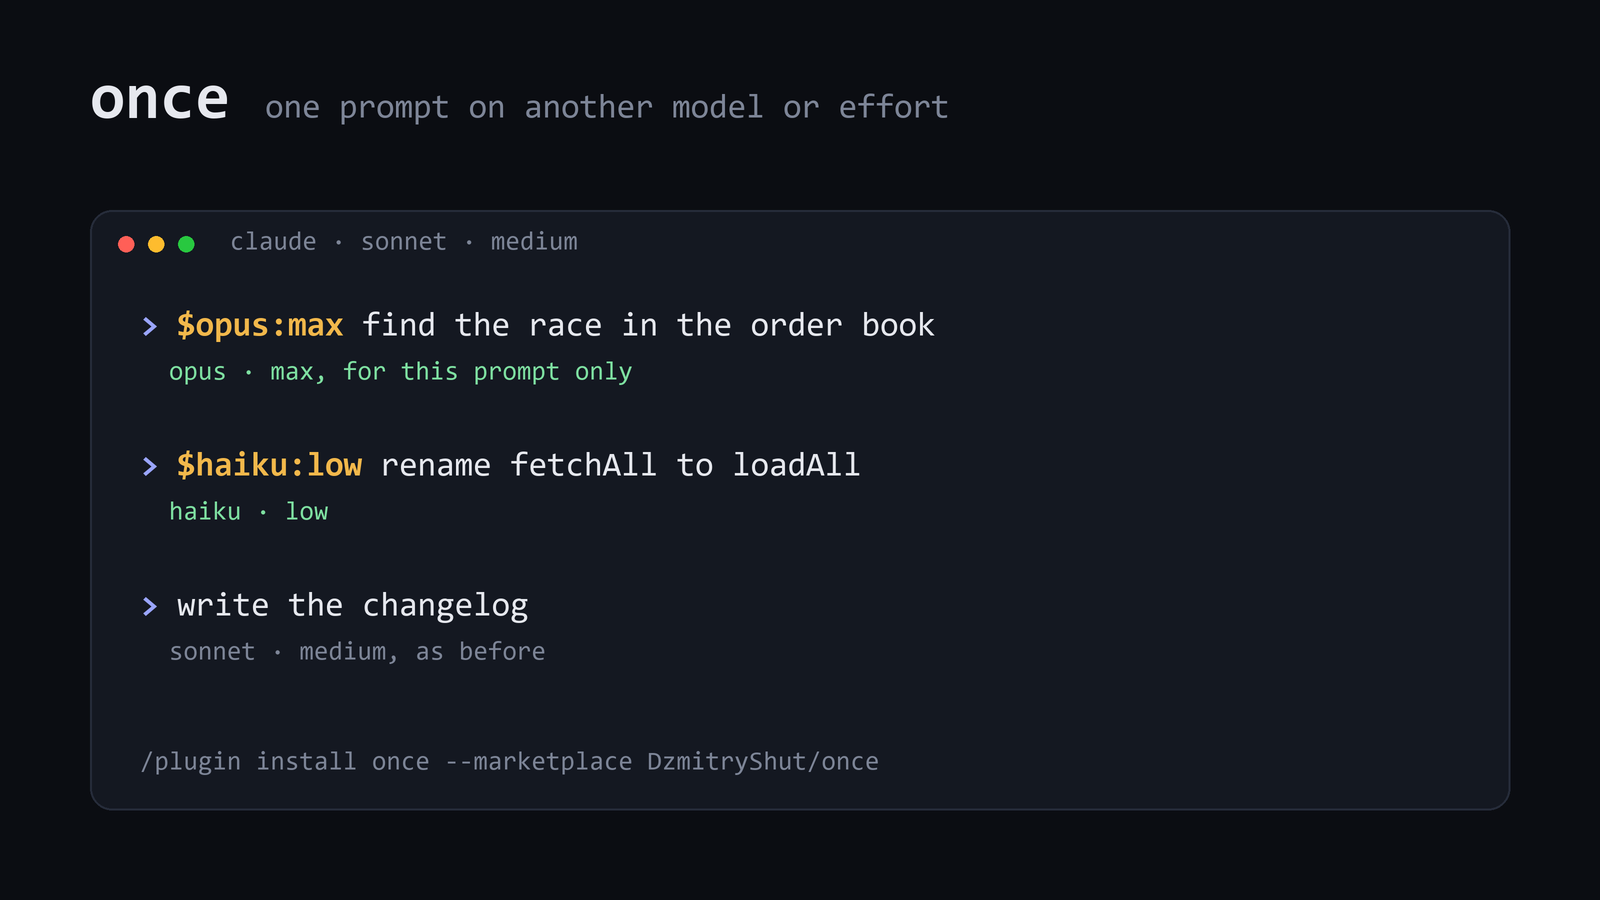
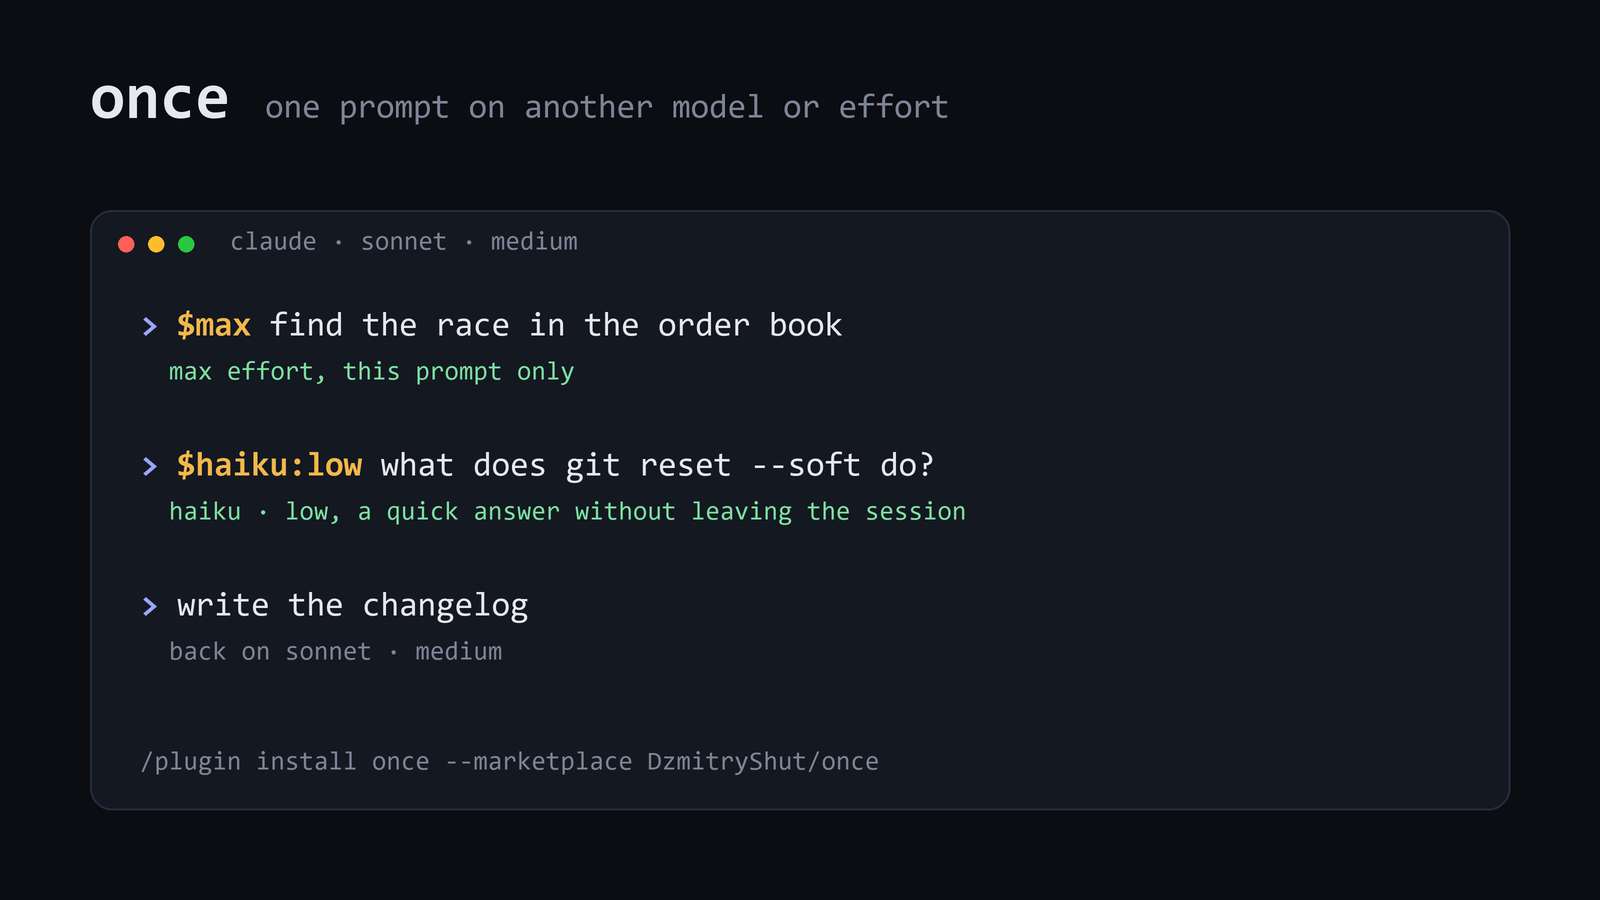
README: shorter and more visual, quick side questions with haiku:low up front

diff --git a/README.md b/README.md
@@ -1,129 +1,87 @@
+<div align="center">
+
 # once
 
-A Claude Code mod that sets the effort, the model, or both for a single prompt. `$low` for routine prompts, `$max` for hard ones. Your next prompt runs on your usual settings again.
+**Pick the effort or the model for one Claude Code prompt.**<br>
+The next prompt is back on your usual settings.
+
+[![license](https://img.shields.io/badge/license-MIT-blue)](LICENSE)
+[![claude code mod](https://img.shields.io/badge/claude%20code-mod-orange)](#install)
 
 ![once in a Claude Code session](assets/demo.png)
 
-## Install
+</div>
 
-At the prompt of a Claude Code session:
+```
+$low   rename fetchAll to loadAll          routine: think less
+$max   find the race in the order book     hard: think more
+$haiku:low what does git reset --soft do?  quick question: answer now, stay in the session
+```
+
+## Install
 
 ```
 /plugin install once --marketplace DzmitryShut/once
 ```
 
-Answer `y` to add the marketplace, then pick a scope. From a shell:
+Answer `y` to add the marketplace, then pick a scope. From a shell: `claude plugin install once --marketplace DzmitryShut/once`. In the desktop app: **+** next to the prompt, **Plugins**, **Add marketplace**.
 
-```
-claude plugin install once --marketplace DzmitryShut/once
-```
+## Use
 
-In the desktop app, click **+** next to the prompt box, then **Plugins**, **Add marketplace** with `DzmitryShut/once`, then **Add plugin**.
+Start a prompt with `$` and a spec. The prefix is cut before the model sees the text.
 
-## Usage
-
-Start a prompt with `$` and an effort level:
-
-```
-$low   rename fetchAll to loadAll
-$high  why does this test flake?
-$max   find the race in the order book
-```
-
-Effort is the setting to switch first. It costs nothing extra: the prompt cache belongs to the model, so `$low` and `$max` keep reading your session's cache ([measured below](#what-a-switch-costs)). Use `$low` for routine prompts and `$max` or `$xhigh` where a miss is expensive. Levels: `low`, `medium`, `high`, `xhigh`, `max`.
-
-Add a model when the prompt calls for one:
-
-```
-$haiku:low rename fetchAll to loadAll
-$opus:max  find the race in the order book
-$sonnet    review this diff
-```
-
-Another model starts with an empty cache and writes the whole conversation into its own, so a model switch is not free. It pays off when the session is under 100k tokens, when you send `$haiku` again within the hour, or when the prompt makes five or more model requests. The numbers are in [What a switch costs](#what-a-switch-costs) and [Using it to save](#using-it-to-save).
-
-| Spec | Model | Effort |
+| You type | Model | Effort |
 | --- | --- | --- |
-| `$opus` | Opus | unchanged |
-| `$max` | unchanged | max |
-| `$opus:max` or `$max:opus` | Opus | max |
-| `$claude-sonnet-5-5:low` | that exact model id | low |
+| `$low` `$medium` `$high` `$xhigh` `$max` | yours | that level |
+| `$opus` `$sonnet` `$haiku` `$fable` | that model | yours |
+| `$haiku:low`, `$max:opus` | that model | that level |
+| `$claude-sonnet-5-5:low` | that exact id | that level |
 
-Models: `opus`, `sonnet`, `haiku`, `fable`, or any full `claude-*` id. Effort: `low`, `medium`, `high`, `xhigh`, `max`. Case does not matter.
+Anything that isn't a spec goes through as typed, so `$HOME is wrong` and `costs $5` are safe.
 
-The prefix is removed before the prompt reaches the model. Text that doesn't parse as a spec is sent as typed, so `$HOME is wrong` and `costs $5` are left alone.
+### A quick question without leaving the session
 
-When the last request carried more than 100k tokens and the prompt changes the model, a toast shows what the switch costs before the prompt goes through, for example: *Haiku writes ~150k tokens to its cache: ~$0.15. Opus would read: ~$0.03.* The prompt is never held back. The estimate uses list prices for a 1-hour cache and assumes the session's own cache is still warm. It stays quiet when the target model answered within the last hour, because its cache already holds the conversation.
+You are deep in a long task and want to check one thing. `$haiku:low` answers it on the fastest model with almost no thinking, and your session, its model and its effort stay as they were. No `/model`, no second window, no switching back.
 
-## How it works
+In a session under 100k tokens this is also the cheapest prompt you can send: **$0.004** against **$0.032** on Opus. In a bigger one the first `$haiku` is slower and costs more, because Haiku has to write the conversation into its own cache. A second one within the hour costs **$0.018**. The mod warns you before a switch that costs real money.
 
-`once` never changes your session's model or effort. It hooks the model requests of the turn your prompt starts and swaps `model` and `effort` on each of them, including every request after a tool call. Once the turn ends, requests go out with the session settings again.
+### Effort is free, a model is not
 
-- Only the main agent is affected. Subagents started during that turn keep their own models.
-- If you type a `$` prompt while Claude is still working, it applies from the next model request.
-- If you interrupt a turn before it reaches the model, the override is dropped.
-
-## What a switch costs
-
-The prompt cache belongs to a model. Changing the model drops it, changing the effort does not. Measured with [`bench/cache.mjs`](bench/cache.mjs): a session on Opus 5.5 at effort `xhigh`, where each `$` prompt reads one file. Costs are Claude Code's own estimates at API prices; on a subscription they come out of your usage limits instead.
+The prompt cache belongs to a model. Changing the effort keeps it, changing the model drops it.
 
 | Prompt | Session of 30-40k tokens | Session of 160-175k tokens |
 | --- | ---: | ---: |
 | no prefix, stays on Opus | $0.032 | $0.085 |
-| `$haiku` | $0.004 | $0.160 |
-| `$sonnet` | $0.091 | $0.631 |
 | `$low` | $0.022 | $0.079 |
 | `$max` | $0.061 | $0.111 |
-| next prompt after `$haiku` (after a plain one) | $0.078 ($0.053) | $0.126 ($0.077) |
+| `$haiku` | $0.004 | $0.160 |
+| `$sonnet` | $0.091 | $0.631 |
 
-Full output, with tokens and time per request: [`bench/results.md`](bench/results.md).
+Measured on an Opus 5.5 session at `xhigh`, one file read per prompt, Claude Code's own cost estimates at API prices ([full results](bench/results.md), [script](bench/cache.mjs)).
 
-- **Another model writes the conversation into its own cache.** Its first request in the large session wrote 146k tokens. The second request of the same prompt read them back.
-- **`$haiku` is cheaper under 100k tokens.** There Haiku's cache write costs $0.20 per million tokens, the same as Opus reading its own cache, and the cheap output does the rest: eight times cheaper in the small session. Above 100k, Haiku bills the whole prompt at its higher rate card, so the write costs $1.00 per million. For a short answer like this one that doubled the cost. By list prices it pays off again only when the answer runs past about 7k output tokens at this size.
-- **`$sonnet` rarely saves money in an Opus session.** Sonnet's cache write costs $4 per million tokens, twenty times what Opus pays to read. By list prices the cheaper output makes up for it only when the answer is about 40% as long as the context. It is faster: 5.5 s against 8.0 s in the large session.
-- **Effort is free to change.** `$low` and `$max` requests kept reading the session's cache, with a few hundred tokens written, as on any prompt.
-- **Going back is cheap.** The session's own cache lives for an hour on a subscription, so the next prompt writes only the switched prompt's messages, about 5k tokens.
+What that means in practice:
 
-How big are real sessions? Across my 62 Claude Code sessions, the median main-agent request carried 124k tokens of context, the 90th percentile 224k, and 97.7% of input tokens came from the cache. The large column is the usual case for me. At API prices, 73% of what my main agent cost went to the cache (39% reads, 34% writes) and 27% to output, thinking included.
+- **`$low` and `$max` per prompt.** Nothing extra to pay. `medium` cost 27% less than `xhigh` on a review question and `low` 42% less, but only `xhigh` found the real bug.
+- **`$haiku` under 100k tokens.** Cheaper from the first prompt.
+- **`$haiku` in a big session** pays off from the second prompt within the hour, or on a prompt with five or more model requests.
+- **`$sonnet`** buys speed, not savings.
 
-## Using it to save
+When the last request carried more than 100k tokens and a prompt changes the model, a toast shows the price first: *Haiku writes ~150k tokens to its cache: ~$0.15. Opus would read: ~$0.03.* The prompt is never held back.
 
-What paid off in the measurements ([`bench/results.md`](bench/results.md)):
+## How it works
 
-- **Pick the effort per prompt.** Effort doesn't touch the cache, so the only cost of `$low` or `$max` is the thinking itself. On a code review question in a fresh session, `medium` cost 27% less than `xhigh` and `low` 42% less, and they answered in 23 s and 15 s against 36 s. Only `xhigh` found a real bug, though: `$constructor` broke this mod (fixed). On a prompt that mostly reads files, effort barely changed the cost. So: `$low` for routine prompts, `$xhigh` or `$max` where a miss is expensive.
-- **`$haiku` while the session is under 100k tokens.** Haiku's cache write costs what Opus pays to read, so it is cheaper from the first prompt: eight times in the small session.
-- **In a big session, `$haiku` several times within the hour.** In a 145-155k session the first `$haiku` cost $0.142 against $0.078 on Opus. The second and third cost $0.018 each: Haiku's cache still held the conversation. Each return to Opus adds $0.02-0.03 for writing the Haiku prompt into Opus's cache. Three `$haiku` prompts within an hour break even, more save.
-- **Or `$haiku` on a prompt with many tool calls.** Only its first request writes the conversation; the rest read Haiku's cache at a quarter of Opus's price above 100k tokens, a twentieth below. From the per-request numbers, a prompt with five or more model requests pays for its own switch in a 150k session. My median prompt makes five.
-- **Not for a one-off question in a big session.** A two-request prompt cost $0.160 on Haiku against $0.085 on Opus at 160-175k tokens.
-- **`$sonnet` for speed only.** Sonnet reads its cache at the same $0.20 per million tokens as Opus, so it never wins on reads, and its cache write costs twenty times Opus's read.
-
-## Checked
-
-Tested against Claude Code 2.1.300. Live runs with `claude -p --plugin-dir`:
-
-- a session on Sonnet, `$haiku` with a Bash call in the middle: every request of the turn went to `claude-haiku-5-5`; the next prompt went back to `claude-sonnet-5-5`
-- the same math question on Opus: `$low` thought for 166 tokens and answered in 8 s, `$max` thought for 322,488 tokens over 41 min
-
-Unit tests:
-
-```
-claude plugin test .
-```
+`once` never touches your session settings. It swaps `model` and `effort` on the model requests of the one turn your prompt starts, tool calls included, and stops when the turn ends. Subagents keep their own models. Interrupt a turn before it reaches the model and the override is dropped.
 
 ## Develop
 
 ```
 claude --plugin-dir /path/to/once
 claude plugin validate .
-```
-
-The whole mod is [`hooks/register.ts`](hooks/register.ts). Model aliases live in the `MODELS` table at the top, cache prices for the toast in `RATES`.
-
-To measure the cost of a switch on your own setup (it runs a real session, about $2.70 at API prices with `--pad`, $0.45 without):
-
-```
+claude plugin test .
 node bench/cache.mjs [--model opus] [--effort xhigh] [--pad 95000]
 ```
+
+All of it is [`hooks/register.ts`](hooks/register.ts): model aliases in `MODELS`, cache prices in `RATES`. The benchmark runs a real session, about $2.70 at API prices with `--pad`.
 
 ## License
 
